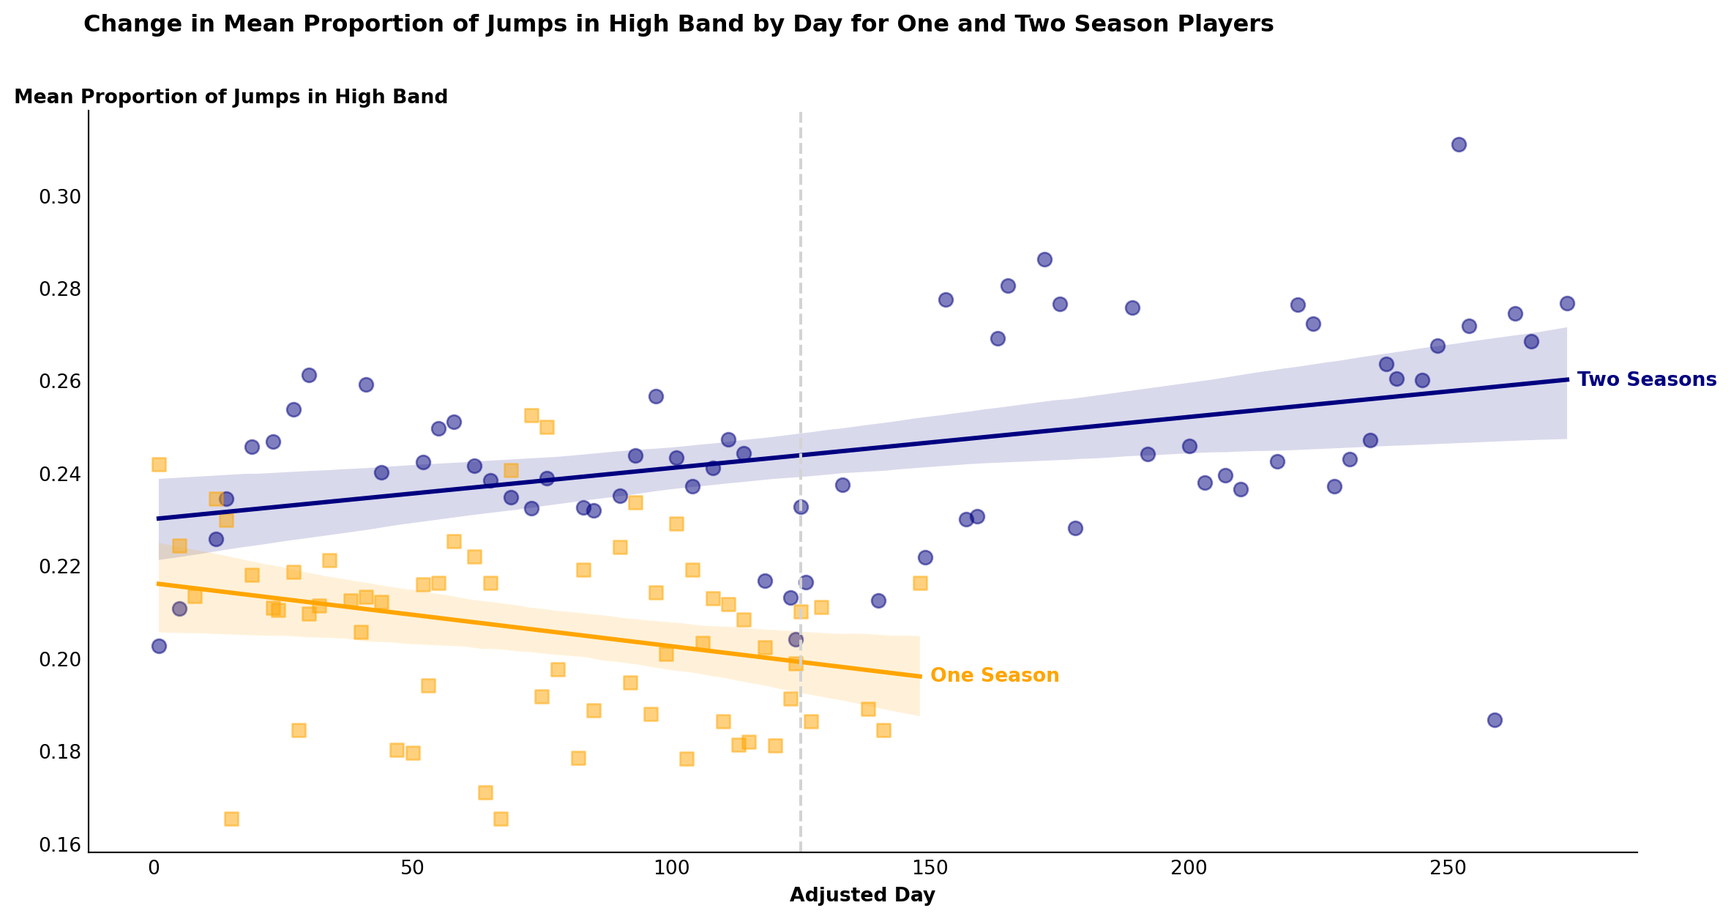
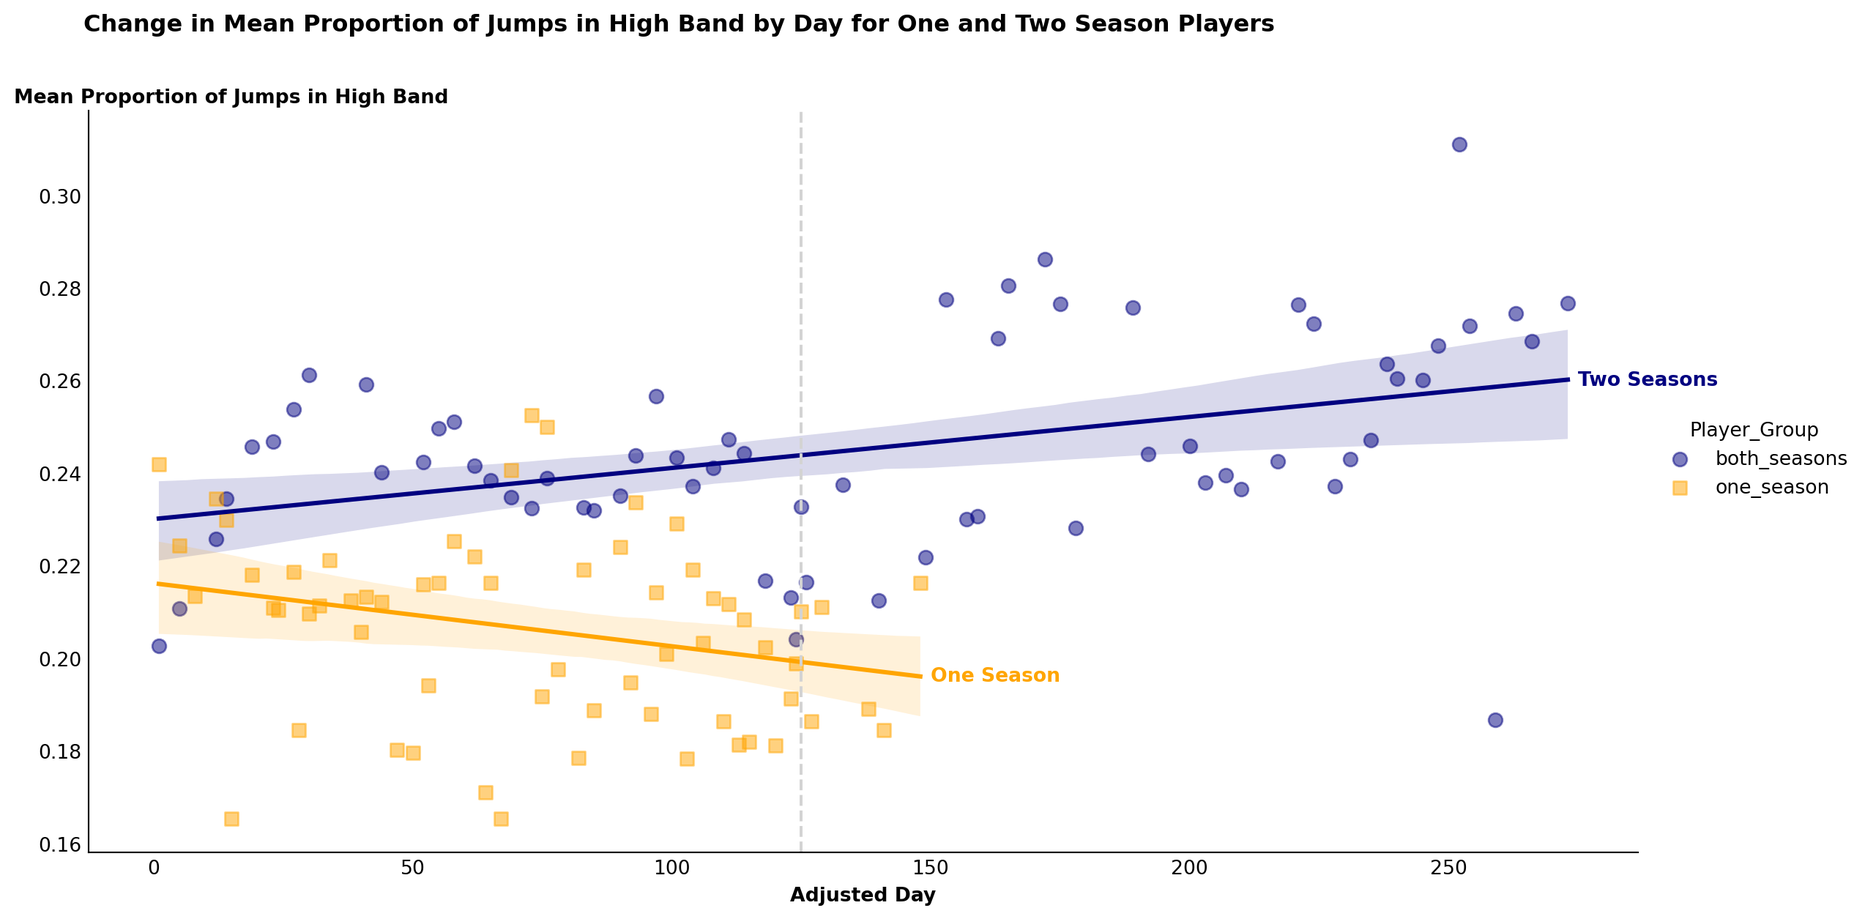
Render

diff --git a/docs/dataviz.html b/docs/dataviz.html
@@ -233,7 +233,7 @@ pre > code.sourceCode > span > a:first-child::before { text-decoration: underlin
 <h2 data-number="4.1" class="anchored" data-anchor-id="making-visualization-1"><span class="header-section-number">4.1</span> Making Visualization 1</h2>
 <section id="getting-rolling-averages-for-visualization-1" class="level3" data-number="4.1.1">
 <h3 data-number="4.1.1" class="anchored" data-anchor-id="getting-rolling-averages-for-visualization-1"><span class="header-section-number">4.1.1</span> Getting Rolling Averages for Visualization 1</h3>
-<div id="3eca9070" class="cell" data-execution_count="2">
+<div id="3f6e7064" class="cell" data-execution_count="2">
 <div class="sourceCode cell-code" id="cb1"><pre class="sourceCode python code-with-copy"><code class="sourceCode python"><span id="cb1-1"><a href="#cb1-1" aria-hidden="true" tabindex="-1"></a><span class="co"># This code chunk retrieves the n-game (7-game) rolling average of proportion of low, med, and high band jumps</span></span>
 <span id="cb1-2"><a href="#cb1-2" aria-hidden="true" tabindex="-1"></a></span>
 <span id="cb1-3"><a href="#cb1-3" aria-hidden="true" tabindex="-1"></a><span class="co"># Empty list to hold rolling_averages data</span></span>
@@ -274,7 +274,7 @@ pre > code.sourceCode > span > a:first-child::before { text-decoration: underlin
 </section>
 <section id="creating-visualization-1-color-palette" class="level3" data-number="4.1.2">
 <h3 data-number="4.1.2" class="anchored" data-anchor-id="creating-visualization-1-color-palette"><span class="header-section-number">4.1.2</span> Creating Visualization 1 Color Palette</h3>
-<div id="edcedbda" class="cell" data-execution_count="3">
+<div id="f0841434" class="cell" data-execution_count="3">
 <div class="sourceCode cell-code" id="cb3"><pre class="sourceCode python code-with-copy"><code class="sourceCode python"><span id="cb3-1"><a href="#cb3-1" aria-hidden="true" tabindex="-1"></a><span class="co"># Getting the number of seasons per player, and getting a list of players who are in both seasons</span></span>
 <span id="cb3-2"><a href="#cb3-2" aria-hidden="true" tabindex="-1"></a>players_seasons <span class="op">=</span> rolling_df.groupby(<span class="st">'About'</span>)[<span class="st">'Season'</span>].nunique()</span>
 <span id="cb3-3"><a href="#cb3-3" aria-hidden="true" tabindex="-1"></a>players_in_both <span class="op">=</span> players_seasons[players_seasons <span class="op">&gt;</span> <span class="dv">1</span>].index.tolist()</span>
@@ -288,7 +288,7 @@ pre > code.sourceCode > span > a:first-child::before { text-decoration: underlin
 </section>
 <section id="generating-and-saving-visualization-1" class="level3" data-number="4.1.3">
 <h3 data-number="4.1.3" class="anchored" data-anchor-id="generating-and-saving-visualization-1"><span class="header-section-number">4.1.3</span> Generating and Saving Visualization 1</h3>
-<div id="de8d16b6" class="cell" data-execution_count="4">
+<div id="84032f70" class="cell" data-execution_count="4">
 <div class="sourceCode cell-code" id="cb4"><pre class="sourceCode python code-with-copy"><code class="sourceCode python"><span id="cb4-1"><a href="#cb4-1" aria-hidden="true" tabindex="-1"></a><span class="co"># Creating Figure and Flattening Axes</span></span>
 <span id="cb4-2"><a href="#cb4-2" aria-hidden="true" tabindex="-1"></a>fig, axs <span class="op">=</span> plt.subplots(<span class="dv">1</span>, <span class="dv">2</span>, figsize <span class="op">=</span> (<span class="dv">30</span>, <span class="dv">10</span>), sharey <span class="op">=</span> <span class="va">True</span>)</span>
 <span id="cb4-3"><a href="#cb4-3" aria-hidden="true" tabindex="-1"></a>axs <span class="op">=</span> axs.flatten()</span>
@@ -324,7 +324,7 @@ pre > code.sourceCode > span > a:first-child::before { text-decoration: underlin
 <h2 data-number="4.2" class="anchored" data-anchor-id="making-visualization-2"><span class="header-section-number">4.2</span> Making Visualization 2</h2>
 <section id="creating-adjusted_day-variable" class="level3" data-number="4.2.1">
 <h3 data-number="4.2.1" class="anchored" data-anchor-id="creating-adjusted_day-variable"><span class="header-section-number">4.2.1</span> Creating “Adjusted_Day” Variable</h3>
-<div id="6311496e" class="cell" data-execution_count="5">
+<div id="98ee8d7a" class="cell" data-execution_count="5">
 <div class="sourceCode cell-code" id="cb5"><pre class="sourceCode python code-with-copy"><code class="sourceCode python"><span id="cb5-1"><a href="#cb5-1" aria-hidden="true" tabindex="-1"></a><span class="co"># Making a new variable which tells whether or not the player is in both seasons or just one</span></span>
 <span id="cb5-2"><a href="#cb5-2" aria-hidden="true" tabindex="-1"></a>rolling_df[<span class="st">'Player_Group'</span>] <span class="op">=</span> rolling_df[<span class="st">'About'</span>].<span class="bu">apply</span>(<span class="kw">lambda</span> x: <span class="st">'both_seasons'</span> <span class="cf">if</span> x <span class="kw">in</span> players_in_both <span class="cf">else</span> <span class="st">'one_season'</span>)</span>
 <span id="cb5-3"><a href="#cb5-3" aria-hidden="true" tabindex="-1"></a></span>
@@ -351,7 +351,7 @@ pre > code.sourceCode > span > a:first-child::before { text-decoration: underlin
 </section>
 <section id="generating-and-saving-visualization-2" class="level3" data-number="4.2.2">
 <h3 data-number="4.2.2" class="anchored" data-anchor-id="generating-and-saving-visualization-2"><span class="header-section-number">4.2.2</span> Generating and Saving Visualization 2</h3>
-<div id="fcb7dec7" class="cell" data-execution_count="6">
+<div id="59d51c0c" class="cell" data-execution_count="6">
 <div class="sourceCode cell-code" id="cb6"><pre class="sourceCode python code-with-copy"><code class="sourceCode python"><span id="cb6-1"><a href="#cb6-1" aria-hidden="true" tabindex="-1"></a><span class="co"># Filter for Athlete C</span></span>
 <span id="cb6-2"><a href="#cb6-2" aria-hidden="true" tabindex="-1"></a>Athlete_C <span class="op">=</span> rolling_df[rolling_df[<span class="st">"About"</span>] <span class="op">==</span> <span class="st">"Athlete C"</span>]</span>
 <span id="cb6-3"><a href="#cb6-3" aria-hidden="true" tabindex="-1"></a></span>
@@ -387,14 +387,14 @@ pre > code.sourceCode > span > a:first-child::before { text-decoration: underlin
 <h2 data-number="4.3" class="anchored" data-anchor-id="making-visualization-3"><span class="header-section-number">4.3</span> Making Visualization 3</h2>
 <section id="getting-daily-averages" class="level3" data-number="4.3.1">
 <h3 data-number="4.3.1" class="anchored" data-anchor-id="getting-daily-averages"><span class="header-section-number">4.3.1</span> Getting Daily Averages</h3>
-<div id="00b88219" class="cell" data-execution_count="7">
+<div id="1f47fe7a" class="cell" data-execution_count="7">
 <div class="sourceCode cell-code" id="cb7"><pre class="sourceCode python code-with-copy"><code class="sourceCode python"><span id="cb7-1"><a href="#cb7-1" aria-hidden="true" tabindex="-1"></a><span class="co"># Grouping by day of the season and whether or not the player was in both seasons, then taking the mean of the prop_jump_high</span></span>
 <span id="cb7-2"><a href="#cb7-2" aria-hidden="true" tabindex="-1"></a>daily_means <span class="op">=</span> rolling_df.groupby([<span class="st">'Adjusted_Day'</span>, <span class="st">'Player_Group'</span>])[<span class="st">'Prop_Jump_High'</span>].mean().reset_index()</span></code><button title="Copy to Clipboard" class="code-copy-button"><i class="bi"></i></button></pre></div>
 </div>
 </section>
 <section id="getting-regression-lines-for-1-and-2-season-players" class="level3" data-number="4.3.2">
 <h3 data-number="4.3.2" class="anchored" data-anchor-id="getting-regression-lines-for-1-and-2-season-players"><span class="header-section-number">4.3.2</span> Getting Regression Lines for 1 and 2 Season Players</h3>
-<div id="a27edd86" class="cell" data-execution_count="8">
+<div id="4ec62eca" class="cell" data-execution_count="8">
 <div class="sourceCode cell-code" id="cb8"><pre class="sourceCode python code-with-copy"><code class="sourceCode python"><span id="cb8-1"><a href="#cb8-1" aria-hidden="true" tabindex="-1"></a><span class="co"># Making a dataframe to hold the required linear regression values</span></span>
 <span id="cb8-2"><a href="#cb8-2" aria-hidden="true" tabindex="-1"></a>linreg_df <span class="op">=</span> pd.DataFrame(columns<span class="op">=</span>[<span class="st">"Player_Group"</span>, <span class="st">"Slope"</span>, <span class="st">"Intercept"</span>, <span class="st">"R-value"</span>])</span>
 <span id="cb8-3"><a href="#cb8-3" aria-hidden="true" tabindex="-1"></a></span>
@@ -449,7 +449,7 @@ pre > code.sourceCode > span > a:first-child::before { text-decoration: underlin
 </section>
 <section id="generating-and-saving-visualization-3" class="level3" data-number="4.3.3">
 <h3 data-number="4.3.3" class="anchored" data-anchor-id="generating-and-saving-visualization-3"><span class="header-section-number">4.3.3</span> Generating and Saving Visualization 3</h3>
-<div id="5df2ced4" class="cell" data-execution_count="9">
+<div id="669a9392" class="cell" data-execution_count="9">
 <div class="sourceCode cell-code" id="cb9"><pre class="sourceCode python code-with-copy"><code class="sourceCode python"><span id="cb9-1"><a href="#cb9-1" aria-hidden="true" tabindex="-1"></a><span class="co"># Making palette for below plot</span></span>
 <span id="cb9-2"><a href="#cb9-2" aria-hidden="true" tabindex="-1"></a>palette <span class="op">=</span> {</span>
 <span id="cb9-3"><a href="#cb9-3" aria-hidden="true" tabindex="-1"></a>    <span class="st">"both_seasons"</span> : <span class="st">"navy"</span>,</span>
@@ -457,7 +457,7 @@ pre > code.sourceCode > span > a:first-child::before { text-decoration: underlin
 <span id="cb9-5"><a href="#cb9-5" aria-hidden="true" tabindex="-1"></a>}</span>
 <span id="cb9-6"><a href="#cb9-6" aria-hidden="true" tabindex="-1"></a></span>
 <span id="cb9-7"><a href="#cb9-7" aria-hidden="true" tabindex="-1"></a><span class="co"># Making linear regression plot of prop_jump_high by # seasons played</span></span>
-<span id="cb9-8"><a href="#cb9-8" aria-hidden="true" tabindex="-1"></a>plot <span class="op">=</span> sns.lmplot(</span>
+<span id="cb9-8"><a href="#cb9-8" aria-hidden="true" tabindex="-1"></a>sns.lmplot(</span>
 <span id="cb9-9"><a href="#cb9-9" aria-hidden="true" tabindex="-1"></a>    data <span class="op">=</span> daily_means,</span>
 <span id="cb9-10"><a href="#cb9-10" aria-hidden="true" tabindex="-1"></a>    x <span class="op">=</span> <span class="st">'Adjusted_Day'</span>,</span>
 <span id="cb9-11"><a href="#cb9-11" aria-hidden="true" tabindex="-1"></a>    y <span class="op">=</span> <span class="st">'Prop_Jump_High'</span>,</span>
@@ -479,12 +479,12 @@ pre > code.sourceCode > span > a:first-child::before { text-decoration: underlin
 <span id="cb9-27"><a href="#cb9-27" aria-hidden="true" tabindex="-1"></a>plt.text(<span class="dv">275</span>, <span class="fl">0.259</span>, <span class="st">"Two Seasons"</span>, color <span class="op">=</span> <span class="st">"navy"</span>, weight <span class="op">=</span> <span class="st">'bold'</span>)</span>
 <span id="cb9-28"><a href="#cb9-28" aria-hidden="true" tabindex="-1"></a>plt.text(<span class="dv">150</span>, <span class="fl">0.195</span>, <span class="st">"One Season"</span>, color <span class="op">=</span> <span class="st">"orange"</span>, weight <span class="op">=</span> <span class="st">'bold'</span>)</span>
 <span id="cb9-29"><a href="#cb9-29" aria-hidden="true" tabindex="-1"></a>plt.gca().tick_params(axis <span class="op">=</span> <span class="st">'both'</span>, length <span class="op">=</span> <span class="dv">0</span>)</span>
-<span id="cb9-30"><a href="#cb9-30" aria-hidden="true" tabindex="-1"></a>plot._legend.remove()</span>
+<span id="cb9-30"><a href="#cb9-30" aria-hidden="true" tabindex="-1"></a><span class="co">#plot._legend.remove()</span></span>
 <span id="cb9-31"><a href="#cb9-31" aria-hidden="true" tabindex="-1"></a>plt.show()</span></code><button title="Copy to Clipboard" class="code-copy-button"><i class="bi"></i></button></pre></div>
 <div class="cell-output cell-output-display">
 <div>
 <figure class="figure">
-<p><img src="dataviz_files/figure-html/cell-10-output-1.png" width="1183" height="628" class="figure-img"></p>
+<p><img src="dataviz_files/figure-html/cell-10-output-1.png" width="1274" height="628" class="figure-img"></p>
 </figure>
 </div>
 </div>

diff --git a/docs/eda.html b/docs/eda.html
@@ -218,7 +218,7 @@ pre > code.sourceCode > span > a:first-child::before { text-decoration: underlin
 
 <section id="descriptive-statistics" class="level2" data-number="3.1">
 <h2 data-number="3.1" class="anchored" data-anchor-id="descriptive-statistics"><span class="header-section-number">3.1</span> Descriptive Statistics</h2>
-<div id="0eb7a98d" class="cell" data-execution_count="2">
+<div id="e6c4b35b" class="cell" data-execution_count="2">
 <div class="sourceCode cell-code" id="cb1"><pre class="sourceCode python code-with-copy"><code class="sourceCode python"><span id="cb1-1"><a href="#cb1-1" aria-hidden="true" tabindex="-1"></a>data.iloc[:, :<span class="op">-</span><span class="dv">1</span>].describe()</span></code><button title="Copy to Clipboard" class="code-copy-button"><i class="bi"></i></button></pre></div>
 <div class="cell-output cell-output-display" data-execution_count="2">
 <div>
@@ -327,7 +327,7 @@ pre > code.sourceCode > span > a:first-child::before { text-decoration: underlin
 </section>
 <section id="distributions" class="level2" data-number="3.2">
 <h2 data-number="3.2" class="anchored" data-anchor-id="distributions"><span class="header-section-number">3.2</span> Distributions</h2>
-<div id="deabf49a" class="cell" data-execution_count="3">
+<div id="a6c2d03a" class="cell" data-execution_count="3">
 <div class="sourceCode cell-code" id="cb2"><pre class="sourceCode python code-with-copy"><code class="sourceCode python"><span id="cb2-1"><a href="#cb2-1" aria-hidden="true" tabindex="-1"></a><span class="co"># Initializing Figure</span></span>
 <span id="cb2-2"><a href="#cb2-2" aria-hidden="true" tabindex="-1"></a>plt.figure(figsize <span class="op">=</span> (<span class="dv">10</span>, <span class="dv">6</span>))</span>
 <span id="cb2-3"><a href="#cb2-3" aria-hidden="true" tabindex="-1"></a></span>
@@ -349,7 +349,7 @@ pre > code.sourceCode > span > a:first-child::before { text-decoration: underlin
 </div>
 </div>
 </div>
-<div id="17247b63" class="cell" data-execution_count="4">
+<div id="1f9a427c" class="cell" data-execution_count="4">
 <div class="sourceCode cell-code" id="cb3"><pre class="sourceCode python code-with-copy"><code class="sourceCode python"><span id="cb3-1"><a href="#cb3-1" aria-hidden="true" tabindex="-1"></a><span class="co"># Initializing Figure</span></span>
 <span id="cb3-2"><a href="#cb3-2" aria-hidden="true" tabindex="-1"></a>plt.figure(figsize <span class="op">=</span> (<span class="dv">10</span>, <span class="dv">6</span>))</span>
 <span id="cb3-3"><a href="#cb3-3" aria-hidden="true" tabindex="-1"></a></span>
@@ -371,7 +371,7 @@ pre > code.sourceCode > span > a:first-child::before { text-decoration: underlin
 </div>
 </div>
 </div>
-<div id="a9ea331a" class="cell" data-execution_count="5">
+<div id="0c42e3b1" class="cell" data-execution_count="5">
 <div class="sourceCode cell-code" id="cb4"><pre class="sourceCode python code-with-copy"><code class="sourceCode python"><span id="cb4-1"><a href="#cb4-1" aria-hidden="true" tabindex="-1"></a><span class="co"># Initializing Figure</span></span>
 <span id="cb4-2"><a href="#cb4-2" aria-hidden="true" tabindex="-1"></a>plt.figure(figsize <span class="op">=</span> (<span class="dv">10</span>, <span class="dv">6</span>))</span>
 <span id="cb4-3"><a href="#cb4-3" aria-hidden="true" tabindex="-1"></a></span>
@@ -393,7 +393,7 @@ pre > code.sourceCode > span > a:first-child::before { text-decoration: underlin
 </div>
 </div>
 </div>
-<div id="092bc9b4" class="cell" data-execution_count="6">
+<div id="49e7a8ef" class="cell" data-execution_count="6">
 <div class="sourceCode cell-code" id="cb5"><pre class="sourceCode python code-with-copy"><code class="sourceCode python"><span id="cb5-1"><a href="#cb5-1" aria-hidden="true" tabindex="-1"></a><span class="co"># Initializing Figure</span></span>
 <span id="cb5-2"><a href="#cb5-2" aria-hidden="true" tabindex="-1"></a>plt.figure(figsize <span class="op">=</span> (<span class="dv">10</span>, <span class="dv">6</span>))</span>
 <span id="cb5-3"><a href="#cb5-3" aria-hidden="true" tabindex="-1"></a></span>
@@ -420,7 +420,7 @@ pre > code.sourceCode > span > a:first-child::before { text-decoration: underlin
 </section>
 <section id="change-over-time" class="level2" data-number="3.3">
 <h2 data-number="3.3" class="anchored" data-anchor-id="change-over-time"><span class="header-section-number">3.3</span> Change Over Time</h2>
-<div id="26ab2cc7" class="cell" data-execution_count="7">
+<div id="60725b55" class="cell" data-execution_count="7">
 <div class="sourceCode cell-code" id="cb6"><pre class="sourceCode python code-with-copy"><code class="sourceCode python"><span id="cb6-1"><a href="#cb6-1" aria-hidden="true" tabindex="-1"></a><span class="co"># Melting dfs</span></span>
 <span id="cb6-2"><a href="#cb6-2" aria-hidden="true" tabindex="-1"></a>s1 <span class="op">=</span> data[data[<span class="st">"Season"</span>] <span class="op">==</span> <span class="dv">1</span>]</span>
 <span id="cb6-3"><a href="#cb6-3" aria-hidden="true" tabindex="-1"></a>s1_melted <span class="op">=</span> s1.melt(id_vars <span class="op">=</span> <span class="st">'Date'</span>, value_vars <span class="op">=</span> [<span class="st">'Prop_Jump_Low'</span>, <span class="st">'Prop_Jump_Med'</span>, <span class="st">'Prop_Jump_High'</span>], var_name <span class="op">=</span> <span class="st">'Jump Band'</span>, value_name <span class="op">=</span> <span class="st">'Proportion'</span>)</span>
@@ -456,7 +456,7 @@ pre > code.sourceCode > span > a:first-child::before { text-decoration: underlin
 </section>
 <section id="correlations" class="level2" data-number="3.4">
 <h2 data-number="3.4" class="anchored" data-anchor-id="correlations"><span class="header-section-number">3.4</span> Correlations</h2>
-<div id="ade46246" class="cell" data-execution_count="8">
+<div id="f47f0e07" class="cell" data-execution_count="8">
 <div class="sourceCode cell-code" id="cb7"><pre class="sourceCode python code-with-copy"><code class="sourceCode python"><span id="cb7-1"><a href="#cb7-1" aria-hidden="true" tabindex="-1"></a><span class="co"># Making figure</span></span>
 <span id="cb7-2"><a href="#cb7-2" aria-hidden="true" tabindex="-1"></a>plt.figure()</span>
 <span id="cb7-3"><a href="#cb7-3" aria-hidden="true" tabindex="-1"></a></span>

diff --git a/docs/datacleaning.html b/docs/datacleaning.html
@@ -224,7 +224,7 @@ pre > code.sourceCode > span > a:first-child::before { text-decoration: underlin
 <section id="loading-in-the-data" class="level2" data-number="2.2">
 <h2 data-number="2.2" class="anchored" data-anchor-id="loading-in-the-data"><span class="header-section-number">2.2</span> Loading in the Data</h2>
 <p>This code chunk loads in the catapult data for each season from the data folder. Then, data from each season is marked with a season indicator column, before being combined into a single dataset. Next, the columns of the data are limited to the variables relevant for this study.</p>
-<div id="7672bc05" class="cell" data-message="false" data-execution_count="1">
+<div id="7b64ca95" class="cell" data-message="false" data-execution_count="1">
 <div class="sourceCode cell-code" id="cb1"><pre class="sourceCode python code-with-copy"><code class="sourceCode python"><span id="cb1-1"><a href="#cb1-1" aria-hidden="true" tabindex="-1"></a><span class="co"># Imports</span></span>
 <span id="cb1-2"><a href="#cb1-2" aria-hidden="true" tabindex="-1"></a><span class="im">import</span> numpy <span class="im">as</span> np</span>
 <span id="cb1-3"><a href="#cb1-3" aria-hidden="true" tabindex="-1"></a><span class="im">import</span> pandas <span class="im">as</span> pd</span>
@@ -292,7 +292,7 @@ pre > code.sourceCode > span > a:first-child::before { text-decoration: underlin
 <section id="selecting-the-game-data" class="level2" data-number="2.3">
 <h2 data-number="2.3" class="anchored" data-anchor-id="selecting-the-game-data"><span class="header-section-number">2.3</span> Selecting the Game Data</h2>
 <p>Next, the dataset is limited to include only data from game periods. Overtime periods are removed from the data as well, to standardize the game length to two halves.</p>
-<div id="a955c241" class="cell" data-execution_count="2">
+<div id="ad805264" class="cell" data-execution_count="2">
 <div class="sourceCode cell-code" id="cb2"><pre class="sourceCode python code-with-copy"><code class="sourceCode python"><span id="cb2-1"><a href="#cb2-1" aria-hidden="true" tabindex="-1"></a><span class="co"># Filtering to include 'Period' - the keyword for game periods</span></span>
 <span id="cb2-2"><a href="#cb2-2" aria-hidden="true" tabindex="-1"></a>games <span class="op">=</span> data[data[<span class="st">"Period"</span>].<span class="bu">str</span>.contains(<span class="st">"Period"</span>) <span class="op">==</span> <span class="va">True</span>]</span>
 <span id="cb2-3"><a href="#cb2-3" aria-hidden="true" tabindex="-1"></a></span>
@@ -359,7 +359,7 @@ pre > code.sourceCode > span > a:first-child::before { text-decoration: underlin
 <section id="aggregating-statistics" class="level2" data-number="2.4">
 <h2 data-number="2.4" class="anchored" data-anchor-id="aggregating-statistics"><span class="header-section-number">2.4</span> Aggregating Statistics</h2>
 <p>In its original format, the data for each game is split between halves. This code chunk limits the data to include only games where the player plays both halves, then properly aggregates the stats from the two halves into a single game value.</p>
-<div id="55538dc0" class="cell" data-execution_count="3">
+<div id="77c36986" class="cell" data-execution_count="3">
 <div class="sourceCode cell-code" id="cb3"><pre class="sourceCode python code-with-copy"><code class="sourceCode python"><span id="cb3-1"><a href="#cb3-1" aria-hidden="true" tabindex="-1"></a><span class="co"># Number of halves by player by date. This will be used to filter out games where the player played only  1 half </span></span>
 <span id="cb3-2"><a href="#cb3-2" aria-hidden="true" tabindex="-1"></a>half_counts <span class="op">=</span> games.groupby([<span class="st">'Date'</span>, <span class="st">'About'</span>, <span class="st">'Season'</span>])[<span class="st">'Period'</span>].count().reset_index(name <span class="op">=</span> <span class="st">'Half Count'</span>)</span>
 <span id="cb3-3"><a href="#cb3-3" aria-hidden="true" tabindex="-1"></a></span>
@@ -424,7 +424,7 @@ pre > code.sourceCode > span > a:first-child::before { text-decoration: underlin
 <section id="finalizing-the-dataset" class="level2" data-number="2.5">
 <h2 data-number="2.5" class="anchored" data-anchor-id="finalizing-the-dataset"><span class="header-section-number">2.5</span> Finalizing the Dataset</h2>
 <p>Lastly, proportion versions of the cumulative statistics tracked by Catapult were added to the data set. Because playing time varies greatly by player, using cumulative totals would have been misleading, so this allows for the proportion of each statistic to be examined. The final data set is then saved into the data folder to be used for EDA and visualization.</p>
-<div id="0f9852c3" class="cell" data-execution_count="4">
+<div id="07d4f662" class="cell" data-execution_count="4">
 <div class="sourceCode cell-code" id="cb4"><pre class="sourceCode python code-with-copy"><code class="sourceCode python"><span id="cb4-1"><a href="#cb4-1" aria-hidden="true" tabindex="-1"></a><span class="co"># Reassigning the main data frame as the working games df</span></span>
 <span id="cb4-2"><a href="#cb4-2" aria-hidden="true" tabindex="-1"></a>data <span class="op">=</span> games_agg</span>
 <span id="cb4-3"><a href="#cb4-3" aria-hidden="true" tabindex="-1"></a></span>
